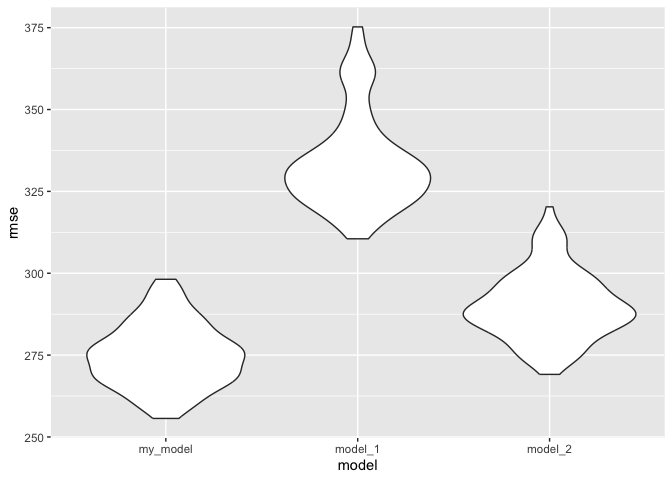
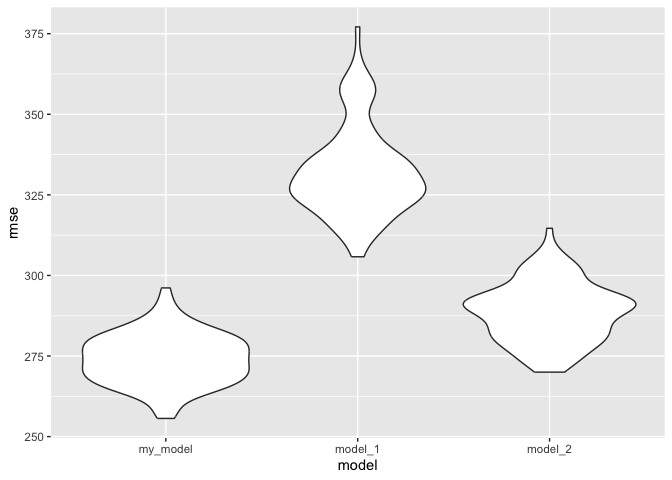
Set seed for MC Cross Validation

diff --git a/p8105_hw6_xg2451.md b/p8105_hw6_xg2451.md
@@ -371,6 +371,7 @@ sets, repeating this process 100 times. For each split, calculated the
 root mean squared error (RMSE) to evaluate prediction accuracy.
 
 ``` r
+set.seed(1)
 # Perform cross-validation
 cv_data <- crossv_mc(birthweight_data, 100) |>
   mutate(
@@ -397,7 +398,7 @@ cv_data |>
 
 | mymodel_mean_rmse | model1_mean_rmse | model2_mean_rmse |
 |------------------:|-----------------:|-----------------:|
-|           274.933 |          334.066 |          290.102 |
+|           274.105 |          332.229 |          288.603 |
 
 #### Visualization of RMSE Distributions
 
@@ -420,8 +421,8 @@ cv_data |>
 
 The violin plot illustrates the RMSE distributions for the three models.
 The proposed model (my_model) demonstrates the lowest RMSE (mean =
-275.96), outperforming both the simpler model (model_1, mean = 335.45)
-and the interaction-heavy model (model_2, mean = 290.67).
+274.11), outperforming both the simpler model (model_1, mean = 332.23)
+and the interaction-heavy model (model_2, mean = 288.60).
 
 This indicates that my proposed model achieves a better balance between
 prediction accuracy and complexity, making it the most suitable for
